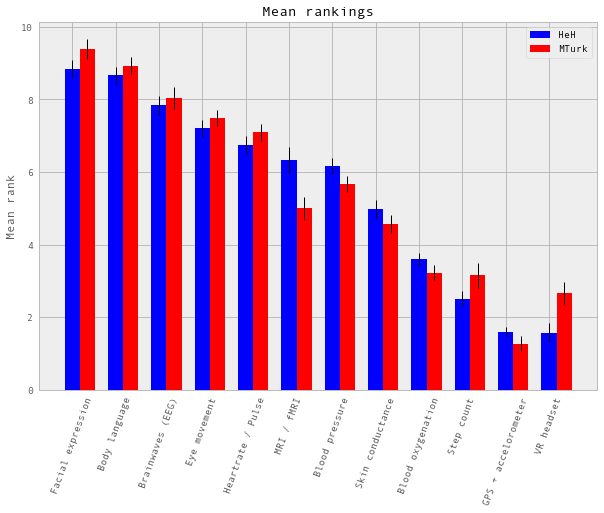
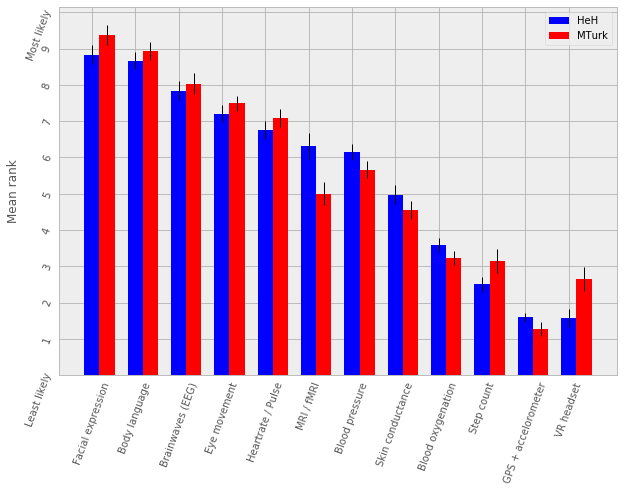
new caption/chart

diff --git a/paper.tex b/paper.tex
@@ -1,4 +1,4 @@
-% Created 2017-04-08 Sat 12:17
+% Created 2017-04-13 Thu 17:24
 % Intended LaTeX compiler: pdflatex
 \documentclass[sigconf]{acmart}
 \usepackage[utf8]{inputenc}
@@ -22,6 +22,7 @@
 \acmYear{2017}
 \copyrightyear{2017}
 \acmPrice{15.00}
+\usepackage{lmodern}
 \date{\today}
 \title{Is the Future of Authenticity In Our Heads?\\\medskip
 \large Moving Passthoughts From the Lab to the World}
@@ -30,14 +31,14 @@
  pdftitle={Is the Future of Authenticity In Our Heads?},
  pdfkeywords={},
  pdfsubject={},
- pdfcreator={Emacs 25.1.1 (Org mode 9.0.4)}, 
+ pdfcreator={Emacs 26.0.50 (Org mode 9.0.5)}, 
  pdflang={English}}
 \begin{document}
 
 \maketitle
 
 \section{Introduction}
-\label{sec:org11c166e}
+\label{sec:orgdc66532}
 
 Usable authentication is a long-standing problem in computer security.
 Traditional passwords are easy to guess and difficult to remember,
@@ -85,10 +86,10 @@ e.g. for people with motor disabilities \cite{Mattia2013}.
 Passthoughts is not without risks (Section 6),
 but, if future work can address the two challenges posed here, several interesting paths unfurl.
 closed-loop authentication, continuous and/or tacit authentication, 
-and possible theoretical contributions to neuroscience, authentication and HCI (Section 7).
+and possibly novel contributions to authentication more broadly (Section 7).
 
 \section{Background}
-\label{sec:orgf2a94d5}
+\label{sec:org86b04e6}
 
 Authentication is the act of proving that a user is who they claim to be.
 In computer security, authenticators are classified into three types: knowledge factors (e.g., passwords
@@ -112,7 +113,7 @@ desired. However, it is easy to understand why users would balk at having to
 enter a passcode \emph{and} provide a fingerprint each time they want to unlock their phone.
 
 \subsection{One-step, multi-factor authentication}
-\label{sec:orga03c0d1}
+\label{sec:orgb8e9707}
 
 To assist with the usability issues surrounding multi-factor authentication,
 passthoughts aims to provide two factors of authentication in a single step.
@@ -135,7 +136,7 @@ Passthoughts mitigates this attack by nature of the mental gesture:
 since the expression of a passthought is not externally visible, the authenticator is impervious to shoulder surfing attacks.
 
 \subsection{Passthought authentication}
-\label{sec:orgd5b852d}
+\label{sec:orgca3bf6a}
 
 The use of EEG as a biometric signal for user authentication has a short history.
 In 2005, Thorpe et al. motivated and outlined the design of a passthoughts system \cite{Thorpe2005}. Since 2002, a number of independent groups have achieved low (less than 1\%) false acceptance rates using multi-channel sensors placed on the scalp \cite{Poulos2002,Marcel2007a,Palaniappan2008,Ashby2011}.
@@ -153,7 +154,7 @@ factor authentication via the simultaneous presentation of the inherence factor
 knowledge factor (the secret mental task) \cite{Chuang2014}.
 
 \subsection{Passthoughts using in-ear EEG}
-\label{sec:orgff60346}
+\label{sec:org72b8e9d}
 
 Even consumer-grade headsets can be uncomfortable to wear, and are awkwardly visible to outside observers. Earbuds present a more discreet, comfortable location for an EEG sensor, as many people already wear earbuds in day-to-day life.
 
@@ -185,7 +186,7 @@ Lending credibility to that study's claim that in-ear EEG could one day become f
 United Sciences recently announced a consumer "hearable'' (in-ear wearable) called The Aware, which will measure EEG from the ear, among other biometrics.
 
 \section{User attitudes and perceptions}
-\label{sec:org356c7b0}
+\label{sec:orgec86f2d}
 
 In spite of past work making passthoughts less visible with more convenient form-factors,
 a large question still remains:
@@ -197,7 +198,7 @@ Past work has established the almost magical abilities that people tend to ascri
 This section outlines common concerns around ``mind-reading'' machines, and how they relate to EEG and passthoughts specifically.
 
 \subsection{Contending with mind-reading machines}
-\label{sec:org42e4836}
+\label{sec:org764904d}
 
 Biosensing devices in general raise many questions about privacy for end-users,
 typically around the meaning of the data produced by particular devices.
@@ -217,7 +218,7 @@ In the next section, we turn a discussion on EEG specifically as a way of motiva
 
 
 \subsection{What (do you think) EEG can reveal about a person?}
-\label{sec:org1a9e970}
+\label{sec:orgea43368}
 
 The survey we report on here, currently in-progress, examines how people's beliefs differ given device ownership, and their membership in one of two groups: Mechanical Turk workers, or people enrolled in Health-e-Heart, a massive (n > 40,000), longitudinal study, in which volunteers fill out surveys about themselves, and/or upload data from biomedical self-tracking devices, over the course of several years \cite{Estrin2010a}.
 In one portion of the survey, we ask subjects to rate a number of different biosensors in order of how likely individual's believe each sensor is to reveal what ``a person is thinking or feeling'' (Figure \ref{fig:rank}).
@@ -232,13 +233,11 @@ Will people shy away from using their passthought authenticator in certain situa
 \begin{figure*}
 \centering
 \includegraphics[width=.9\linewidth]{./figures/rankings.png}
-\caption{``Please rank the following sensors in how likely you believe they are to reveal what a person is thinking and feeling.'' Mean Likert responses (Not at all\ldots{}Very informative). Lower bars mean higher rank (1 being the highest-ranked,  or most likely to reveal what one is thinking or feeling.''}
+\caption{``Please rank the following sensors in how likely you believe they are to reveal what a person is thinking and feeling.'' Mean Likert responses (Not at all\ldots{}Very informative). Higher bars indicate higher rank, or more likely to reveal what one is thinking or feeling.''}
 \end{figure*}
 
-
-
 \section{Diversity and security of passthoughts}
-\label{sec:org442b6ed}
+\label{sec:orgd9c53c7}
 
 While the previous section outlined questions around user attitudes, empirical questions about passthoughts, as signals, also linger.
 This section outlines and motivates the major quantitative questions that have not been fully answered by past work on passthoughts.
@@ -261,7 +260,7 @@ If an attacker has a large enough corpus of EEG readings, do some passthoughts s
 By answering such questions, we could design data-driven policies for, e.g., how many retry attempts passthought authenticators should allow.
 
 \section{Two studies on passthoughts}
-\label{sec:orgf574c57}
+\label{sec:org354b38d}
 
 The prior two sections raise two main topics surrounding passthoughts that future work could address. 
 First, our limited understanding of passthoughts' usability, and user attitudes about the sensing modality present immediate questions for further development of this technology.
@@ -275,7 +274,7 @@ The second study, a longitudinal deployment, seeks to collect a large and divers
 Together, these studies address both long-term concerns about user attitudes and signal diversities, and also short-timescale questions about the usability and accuracy of passthoughts in realistic use scenarios.
 
 \subsection{A real-time passthought authenticator}
-\label{sec:orgee7565e}
+\label{sec:orga45ff6f}
 
 Passthoughts is supposed to be a more usable form of multi-factor authentication
 as compared to existing protocols,
@@ -284,7 +283,7 @@ However, no study yet has systematically evaluated passthoughts' usability.
 Here, we propose a study aimed at examining passthoughts' usability in an ecologically valid context.
 
 \subsubsection{Study protocol}
-\label{sec:orgdd8e5d6}
+\label{sec:org7ffd699}
 
 This study would take place in a lab, under the supervision of an experimenter.
 First, the experimenter would calibrate a subject with a passthought authenticator, as in \cite{Chuang2013b}.
@@ -300,7 +299,7 @@ in which subjects were asked to recount their experience with the authenticator,
 This interview could help gain some richer, qualitative data that traditional survey methods might fail to capture.
 
 \subsubsection{The effect of feedback}
-\label{sec:org7f32cae}
+\label{sec:org5931401}
 
 Through this study, we might find 
 that passthoughts is considered usable, even when authentication attempts are always rejected.
@@ -322,7 +321,7 @@ Its results would shed light on how passthoughts change as a response to authent
 and how authenticator performance affects perceptions of passthoughts' usability on the other.
 
 \subsubsection{Exploring continuous re-calibration}
-\label{sec:org17bc8e1}
+\label{sec:org54e98fb}
 
 In addition to these findings, the data generated during this study could help test 
 a third hypothesis: that the continual re-training of passthought classifiers might help boost classification performance over time,
@@ -341,7 +340,7 @@ This analysis could also act as a harbinger for some of the possible downsides o
 If a user is continually rejected, and the classifier is re-trained using those rejections as negative examples,
 
 \subsection{A longitudinal study on brainwave monitoring}
-\label{sec:orge5483b9}
+\label{sec:org64b1300}
 
 The study proposed above would help answer preliminary questions about
 the usability of a passthought authenticator in a short-term context,
@@ -366,7 +365,7 @@ but also allow us to collect larger datasets,
 and to catch technical issues in sensing devices and collection platforms.
 
 \subsubsection{Study protocol}
-\label{sec:org63572ed}
+\label{sec:org07b7e0e}
 A small group of subjects could wear a working, recording EEG device, whether or not it provides feedback, in a variety of settings for some number of days,
 having subjects journal their experiences and asking them specifically what they feel someone might be able to know about them from the EEG signals they record.
 At the same time, we could use this study as an opportunity to collect a much larger, and more diverse corpus.
@@ -380,7 +379,7 @@ The diverse readings encountered in day-to-day life could help us understand how
 At the same time, our small sample size could enable a rich, qualitative understanding of users attitudes.
 
 \subsubsection{A more diverse corpus}
-\label{sec:org9129123}
+\label{sec:orgd9d792a}
 
 While subjects wear their EEG device and diary about their experience, we should also ask subjects to perform
 targeted mental tasks (potential passthoughts) in a variety of contexts (ambulatory, under the influence of caffeine or alcohol, etc). 
@@ -393,7 +392,7 @@ Unlabeled data represents another fruitful source of data for passthoughts.
 The unlabeled samples in this corpus also allow us to examine properties of EEG signals in general, helping us build more robust models which should help us prevent overfitting in the future.
 
 \subsubsection{The space of possible passthoughts}
-\label{sec:org838cb18}
+\label{sec:orgbee77bb}
 In another potentially fruitful analysis, such a corpus will allow us to perform statistical analysis of how passthoughts are drawn from the overall distribution of EEG signals. 
 Using multi-dimensional clustering algorithms such as t-SNE \cite{VanDerMaaten2008} 
 could assist us in understanding how particular passthoughts relate to other EEG signals that an individual expresses involuntarily throughout the day. 
@@ -404,7 +403,7 @@ Feeding these algorithms into pre-trained passthought classifiers, we can begin 
 These cracking experiments could lead to defenses against cracking attempts, by enforcing retry attempt timeouts or other methods for limiting break-in risk, such that strong guarantees can be enforced.
 
 \subsubsection{Usability and attitudes}
-\label{sec:org2d7c8ef}
+\label{sec:orge4bf59b}
 
 By deploying a real sensing apparatus, be it a traditional consumer device such as the Muse \cite{Mihajlovic2015} 
 or a more experimental piece of equipment such as an earbud,
@@ -412,7 +411,7 @@ and having people record EEG data in their daily life, we could learn more about
 Such a study presents a dual opportunity to understand user beliefs in a rich, qualitative sense, while simultaneously collecting the large, diverse and longitudinal corpus of EEG signals necessary if we wish to stand a chance at decent classification accuracy in the wild.
 
 \section{Privacy, Security: Choices, Tradeoffs}
-\label{sec:org6a62d37}
+\label{sec:org8b26c17}
 
 After the studies described above, 
 we will have a much better grasp on the usability, and security properties of passthought authentication.
@@ -423,7 +422,7 @@ This section briefly reviews risks to user privacy and security that widespread 
 We present broad class of categories from which such risks may emerge. 
 
 \subsection{Privacy}
-\label{sec:org035dd6e}
+\label{sec:orgc4b91c1}
 As of yet, it is still not well understood what EEG signals might reveal about a person.
 EEG signals that are not anonymized could come to be seen as private in the face of new methods of analysis.
 (If your brainwaves can authenticate you, could they also uniquely identify you, even if your name is redacted?)
@@ -431,7 +430,7 @@ Differential privacy \cite{Dwork2014} presents one approach to dealing with the 
 By adding noise to datasets, differentially private databases can make strong guarantees about the likelihood of a de-anonymization attack on particular database queries.
 
 \subsection{Security}
-\label{sec:orgb556ac4}
+\label{sec:org3990614}
 Device security presents another risk to passthought authentication.
 Since EEG devices will transmit data, likely wirelessly \cite{Mihajlovic2015}, their data may be intercepted, depending on the security properties of the underlying transit protocol. 
 When transferring authentication credentials in passthoughts, the ability to snoop on authentication attempts could present a dangerous attack vector.
@@ -447,7 +446,7 @@ It remains an open question what specific protections and access controls will y
 Homomorphic encryption, in which computation such as database queries can be performed on encrypted data, provides one interesting path for future work \cite{Tu2013}.
 
 \subsection{Tradeoffs between security and privacy}
-\label{sec:org4a10aa6}
+\label{sec:org41bf0f2}
 
 In some cases, passthoughts could present direct tradeoffs between security and privacy.
 For example, end-user privacy could be enhanced by storing all data locally, on the phone. 
@@ -465,21 +464,21 @@ user privacy might be more challenging to quantify, as might the tradeoffs betwe
 However, future work will need to address these issues if we are to balance users' security requirements with their privacy requirements.
 
 \section{Further Future Directions}
-\label{sec:org7429a46}
+\label{sec:org663b329}
 
 This paper so far has motivated two future studies on passthoughts,
 and discussed potential risks intrinsic to the development of passthoughts systems.
 With these risks in mind, the present section explores some of the exciting possibilities that could unfold after the immediate priorities described in the prior sections.
 
 \subsection{Closed-loop (real-time) passthoughts}
-\label{sec:org48712d3}
+\label{sec:org36e36f1}
 Future work on passthoughts should look at closed-loop, or online authentication systems,
 in part to investigate the impact of human learning effects on passthought performance.
 What effect does the feedback (of a successful or unsuccessful authentication attempt) have on the way that people perform their passthoughts?
 Specific studies could, for example, provide false feedback in which passthought authentication appears to always either succeed or fail. In the always-fail condition, we might expect subjects to alter the way they perform the passthought across multiple attempts; data of how such a change occurs could enable us to preempt changes observable in the wild.
 
 \subsection{Continuous authentication}
-\label{sec:org40d5d24}
+\label{sec:org0209ad5}
 
 After immediate challenges are overcome,
 one further-out, though potentially exciting possibility is that of using EEG for \emph{continuous authentication}.
@@ -494,7 +493,7 @@ while the authenticator could fall back on inherence in the base case (e.g. as a
 In theory, this strategy provides better security properties than saved sessions or cookies, which (after initial authentication) establish only posession. At the same time, individual login attempts offer security improvements over traditional passthoughts alone, as the continuous inherence step provides an extra, ongoing validation against individual authentication attempts.
 
 \subsection{Organic passwords}
-\label{sec:orga4b7e43}
+\label{sec:orgd47e984}
 
 If EEG signals are nonstationary (changing over time), passthoughts will require continuous re-calibration to maintain decent accuracy \cite{Vidaurre2006a}.
 This feature of BCIs could have an unexpected benefit to security. 
@@ -505,7 +504,7 @@ unless they are able to realistically mutate the signal over authentication atte
 This feature of EEG also gives passthoughts a possible advantage over other methods for behavioral authentication, such as voice or keystroke dynamics \cite{Monrose1997}, which may change more slowly for individuals, if they change at all.
 Future work should investigate this claim, perhaps using a longitudinal corpus such as the one described above.
 \subsection{Neuroscience of authentication}
-\label{sec:orgf12c3d0}
+\label{sec:org250810d}
 
 Where authenticity is nominally concerned with proving that you are who you say you are,
 a less-frequently-asked question in the authentication literature is,
@@ -524,7 +523,7 @@ Who is a person to make decisions for their future self?
 What are possible vectors for abuse?
 In any case, this property of an authentication is, as far as I am aware, novel, and should be considered as we learn more about the strengths, weaknesses, and particular affordances of this still-novel method for authentication.
 \subsection{Passthoughts by any other sensor?}
-\label{sec:org8871e55}
+\label{sec:org65e1ff9}
 
 At the end of the day, past passthoughts work has collected electromagnetic signals from the body at the surface of the skin.
 What is important about passthoughts is not so much the EEG per se, but that it is both secret and idiosyncratic (knowledge and inherence), that its performance had no tell, and that its performance was not easily explained to others.
@@ -535,7 +534,7 @@ Muscular activity associated with thoughts might, after all, be both difficult t
 Future work could investigate such claims further, or use different types of sensors that may have a similar effect (EKG, fNIRs).
 
 \subsection{Health, neuroscience and BCIs}
-\label{sec:org6cabc28}
+\label{sec:org3216f65}
 
 Neuroscience fuels some of the most chilling predictions in science fiction \cite{Welsh2011}.
 It also stands for some of the greatest possible advances in medicine, mental health, and understanding of human behavior.
@@ -561,7 +560,7 @@ This balance will also require a deeper understanding of individuals' attitudes 
 and how private people believe them to be.
 
 \section{Conclusion}
-\label{sec:org6a90370}
+\label{sec:org7610c05}
 
 In general, as sensors grow smaller and cheaper, devices more connected, and machine learning more sophisticated, 
 people will build increasingly high-resolution models of human physiology ``in the wild.''
